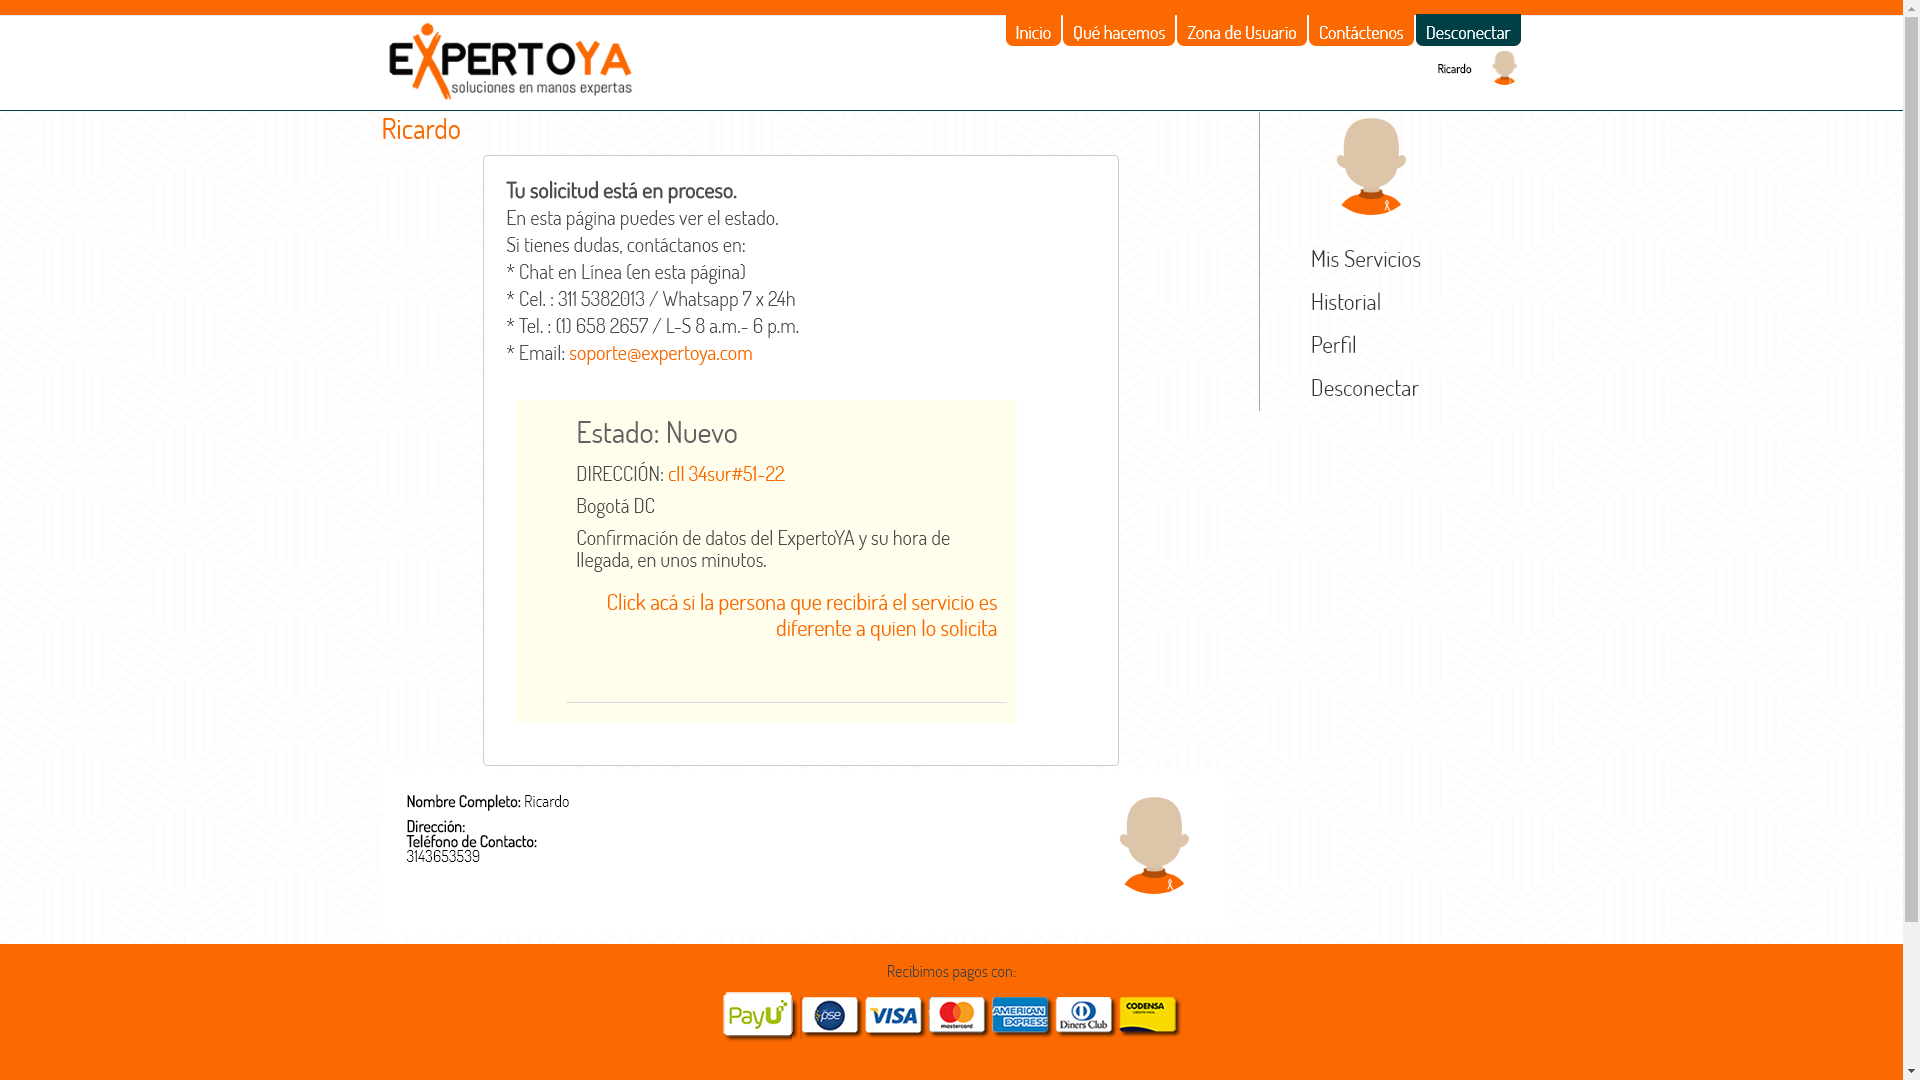
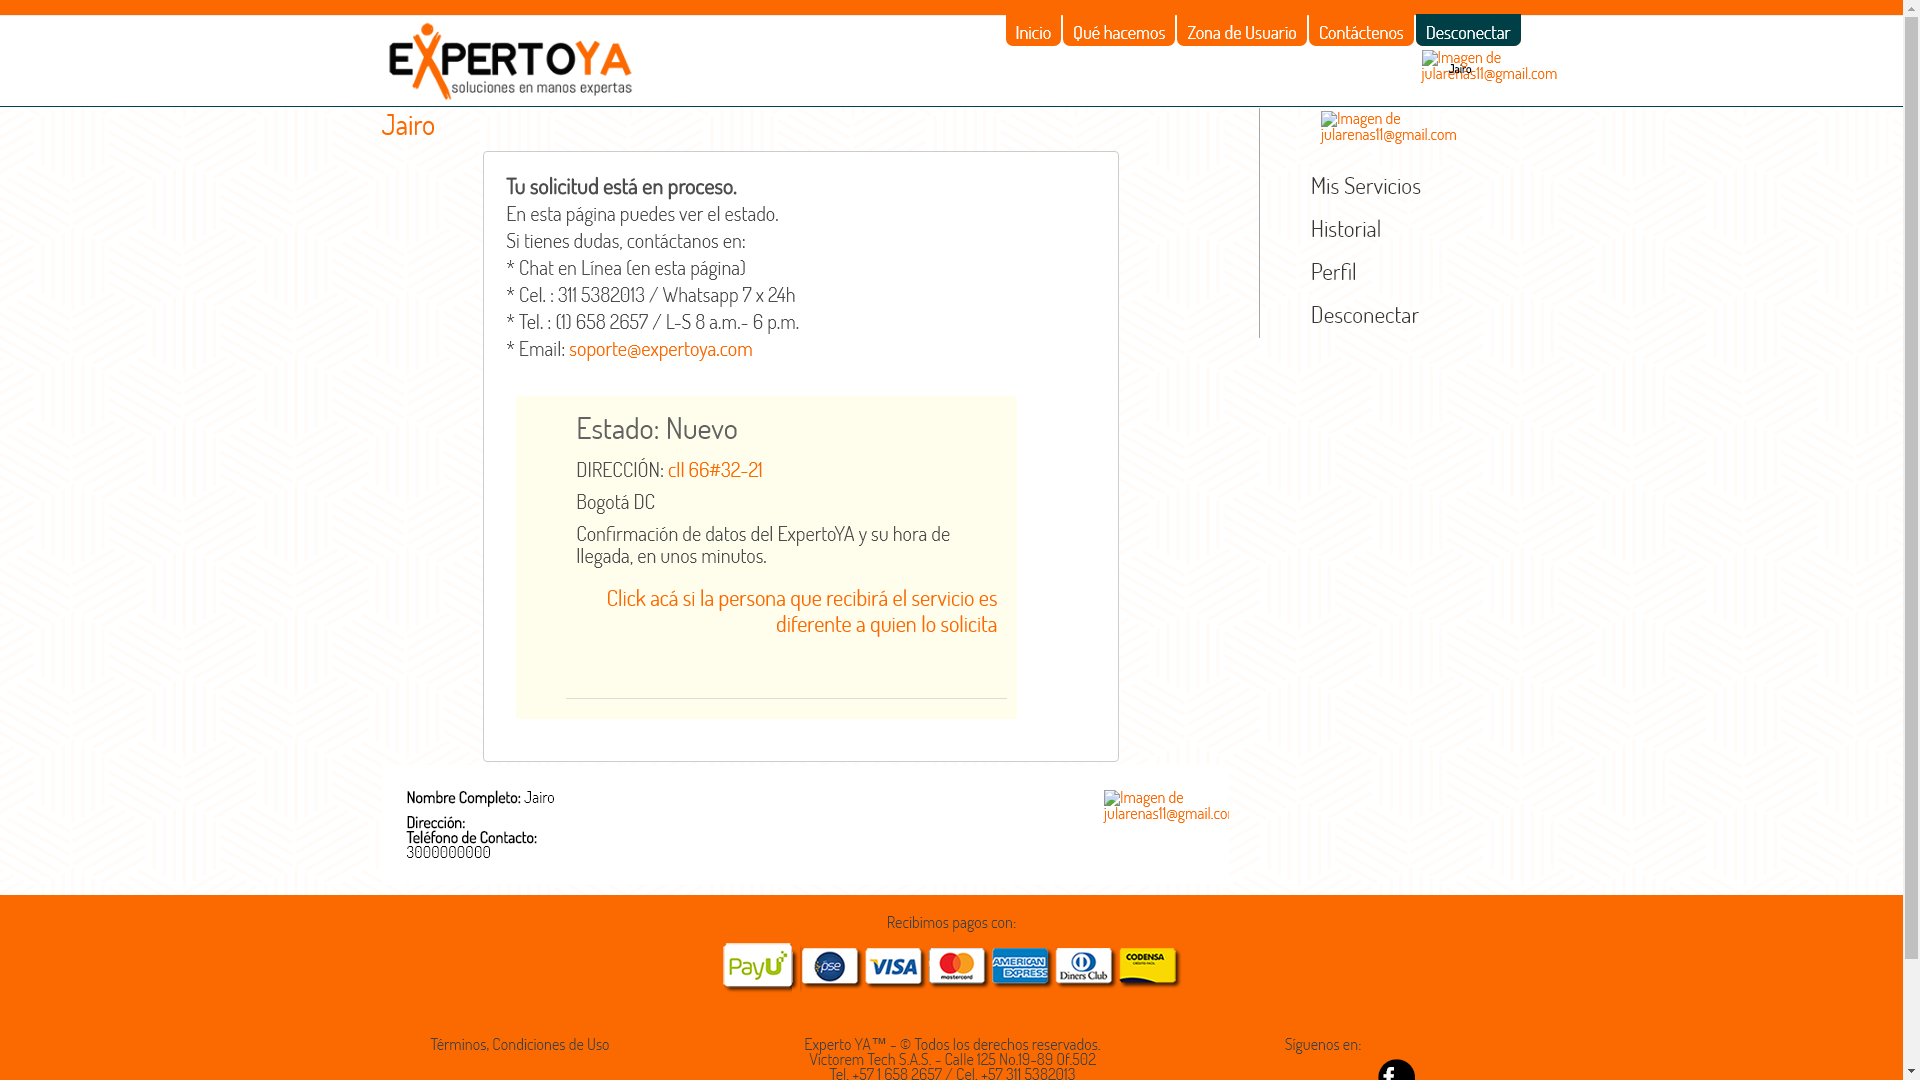
fix en experto ya, doctor soución 1/2

diff --git a/seleniumTest.py b/seleniumTest.py
@@ -48,7 +48,7 @@ def electricistas24Horas(name,phone,email,desc):
 def expertoYa(name,phone,email,desc,dir,now,date,time):
  print("ENTRE AL METODO") 
   
- driver.get("https://www.expertoya.com/")
+ driver.get("https://www.expertoya.com")
  print("ENTRE A EXPERTOYA")
  print(driver.title)
  #lucky_button = driver.find_element_by_css_selector("[name=btnI]")
@@ -90,13 +90,15 @@ def expertoYa(name,phone,email,desc,dir,now,date,time):
  terms= driver.find_element_by_id("edit-legal-accept")
  submit=driver.find_element_by_id("edit-submit")
  
+ driver.get_screenshot_as_file("captureExpertoYaSinEnviar.png")
+ 
  print("-------------")
  print("-------------")
  terms.click()
  submit.click()
  print(driver.title)
  element2 = driver.find_element_by_id("main-content")
- element3=element2.find_element_by_id("block-views-user-listing-block-2")
+ #element3=element2.find_element_by_id("block-views-user-listing-block-2")
  print (element2.get_attribute('innerHTML'))
 
 # element2.find_element_by_xpath(".//span[@class='tecnico_ya']").getText() 
@@ -190,5 +192,5 @@ def expertoYa(name,phone,email,desc,dir,now,date,time):
     # else:
         # return False
 electricistas24Horas("Ricardo","3000000000","t.kavanagh@uniandes.edu.co","Necesito que arrglen a mi perro aaaaaaaaaaaaaaaaaaaaaa xp")
-expertoYa("Ricardo","3000000000","t.kavanagh@uniandes.edu.co","necesito un cerrajero ","cll 34sur#51-22",1,"9 Mayo 2018","20")
+expertoYa("Jairo","3000000000","jularenas11@gmail.com","necesito un cerrajero ","cll 66#32-21",1,"10 Mayo 2018","20")
 #doctorSolucion("Ricardo","3142352865","305717646","jularenas@gmail.com","envio de prueba","Bogotá","Bogotá","BOCHICA")
